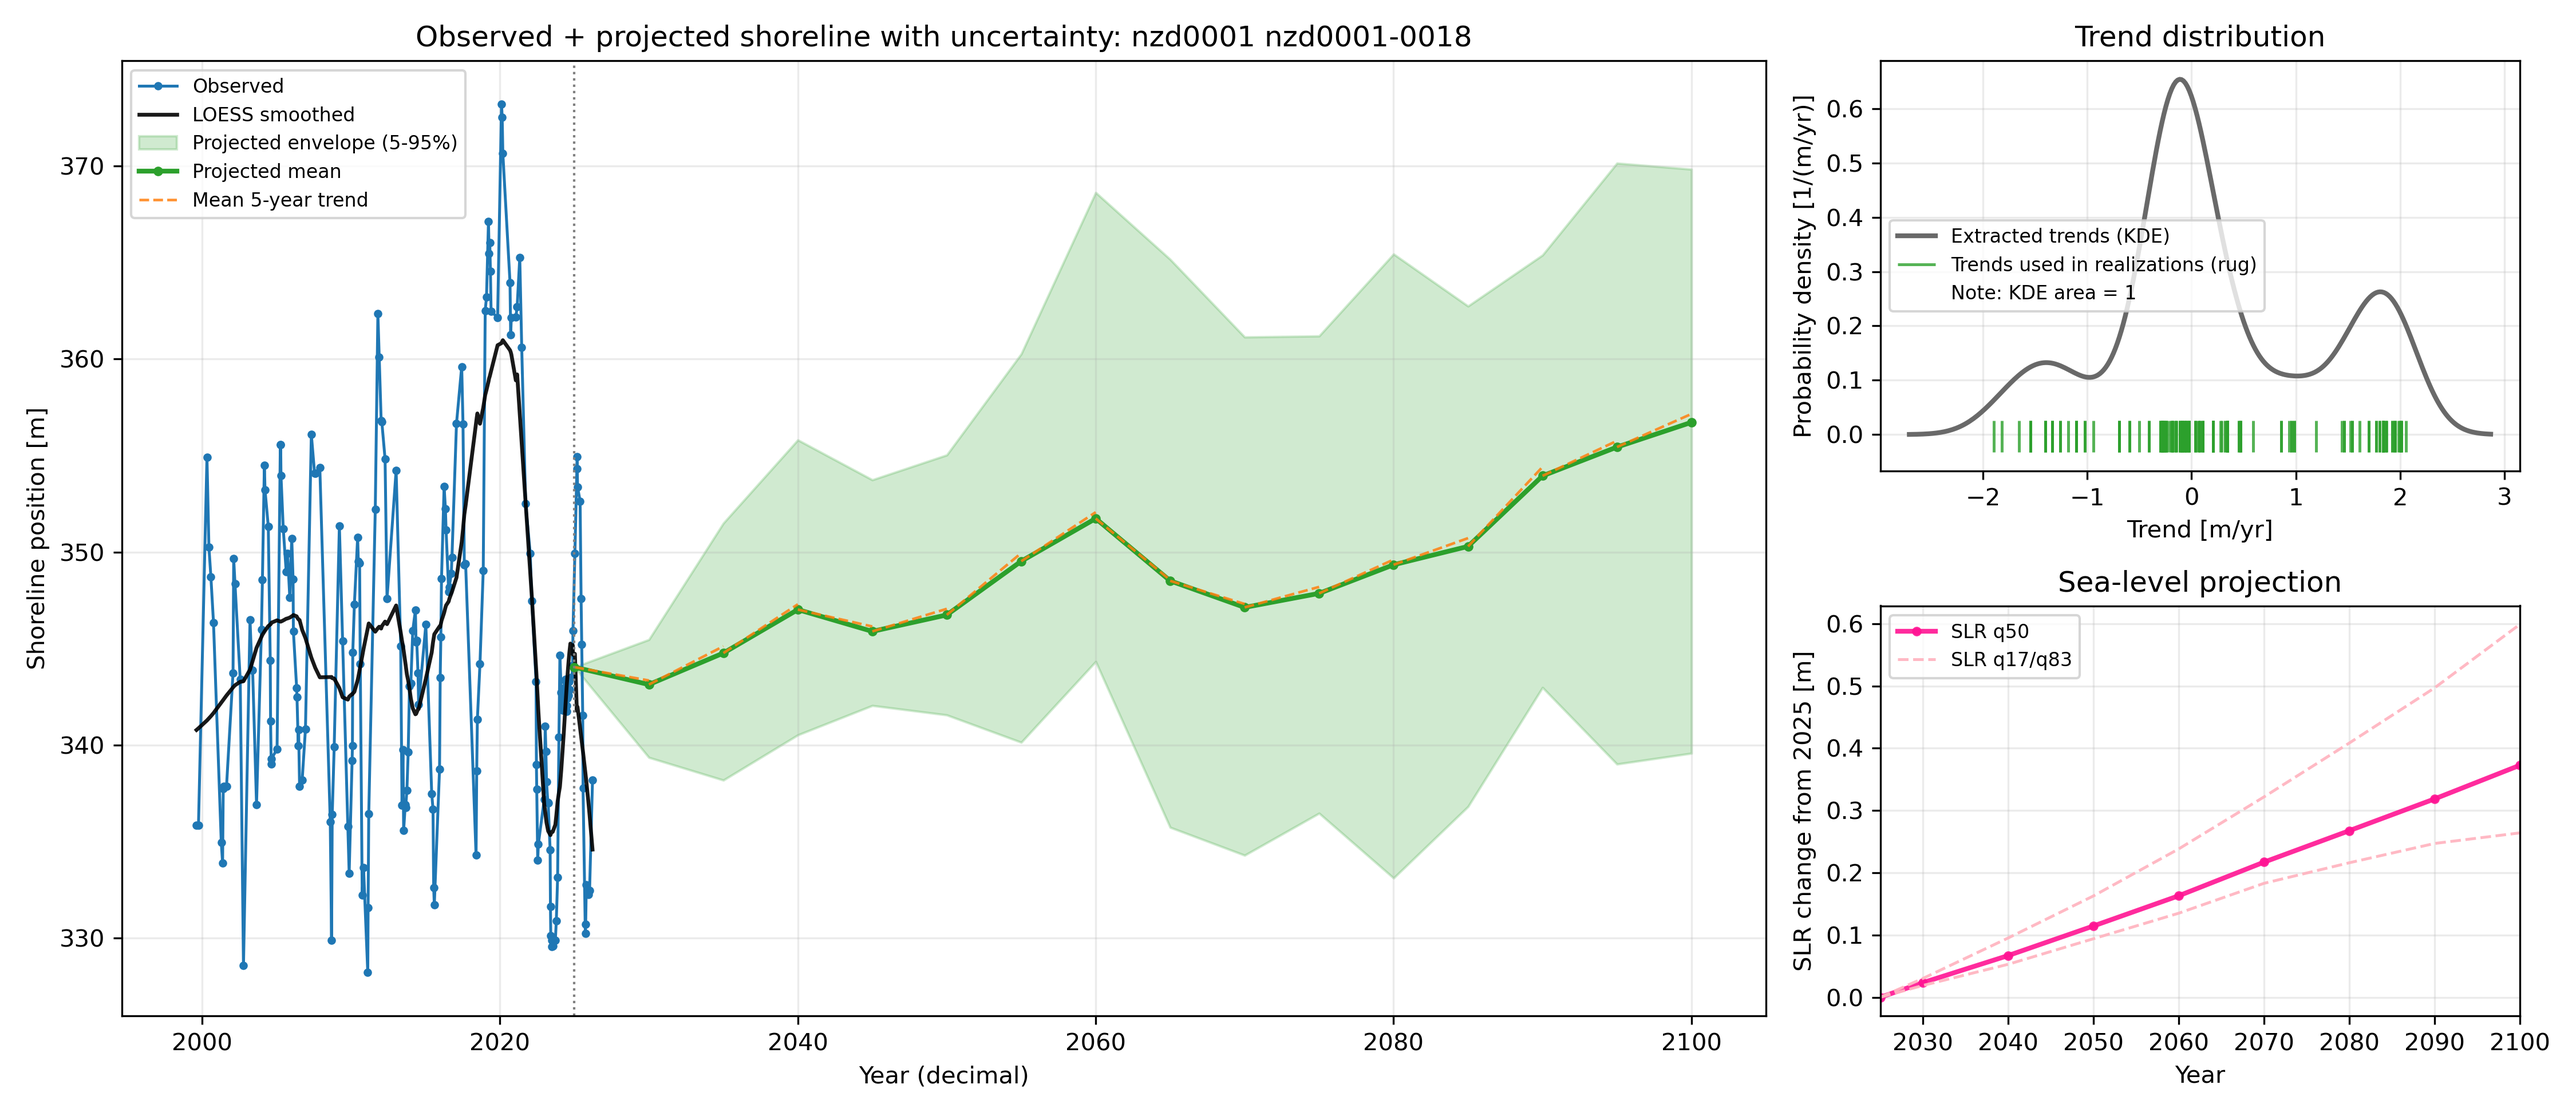
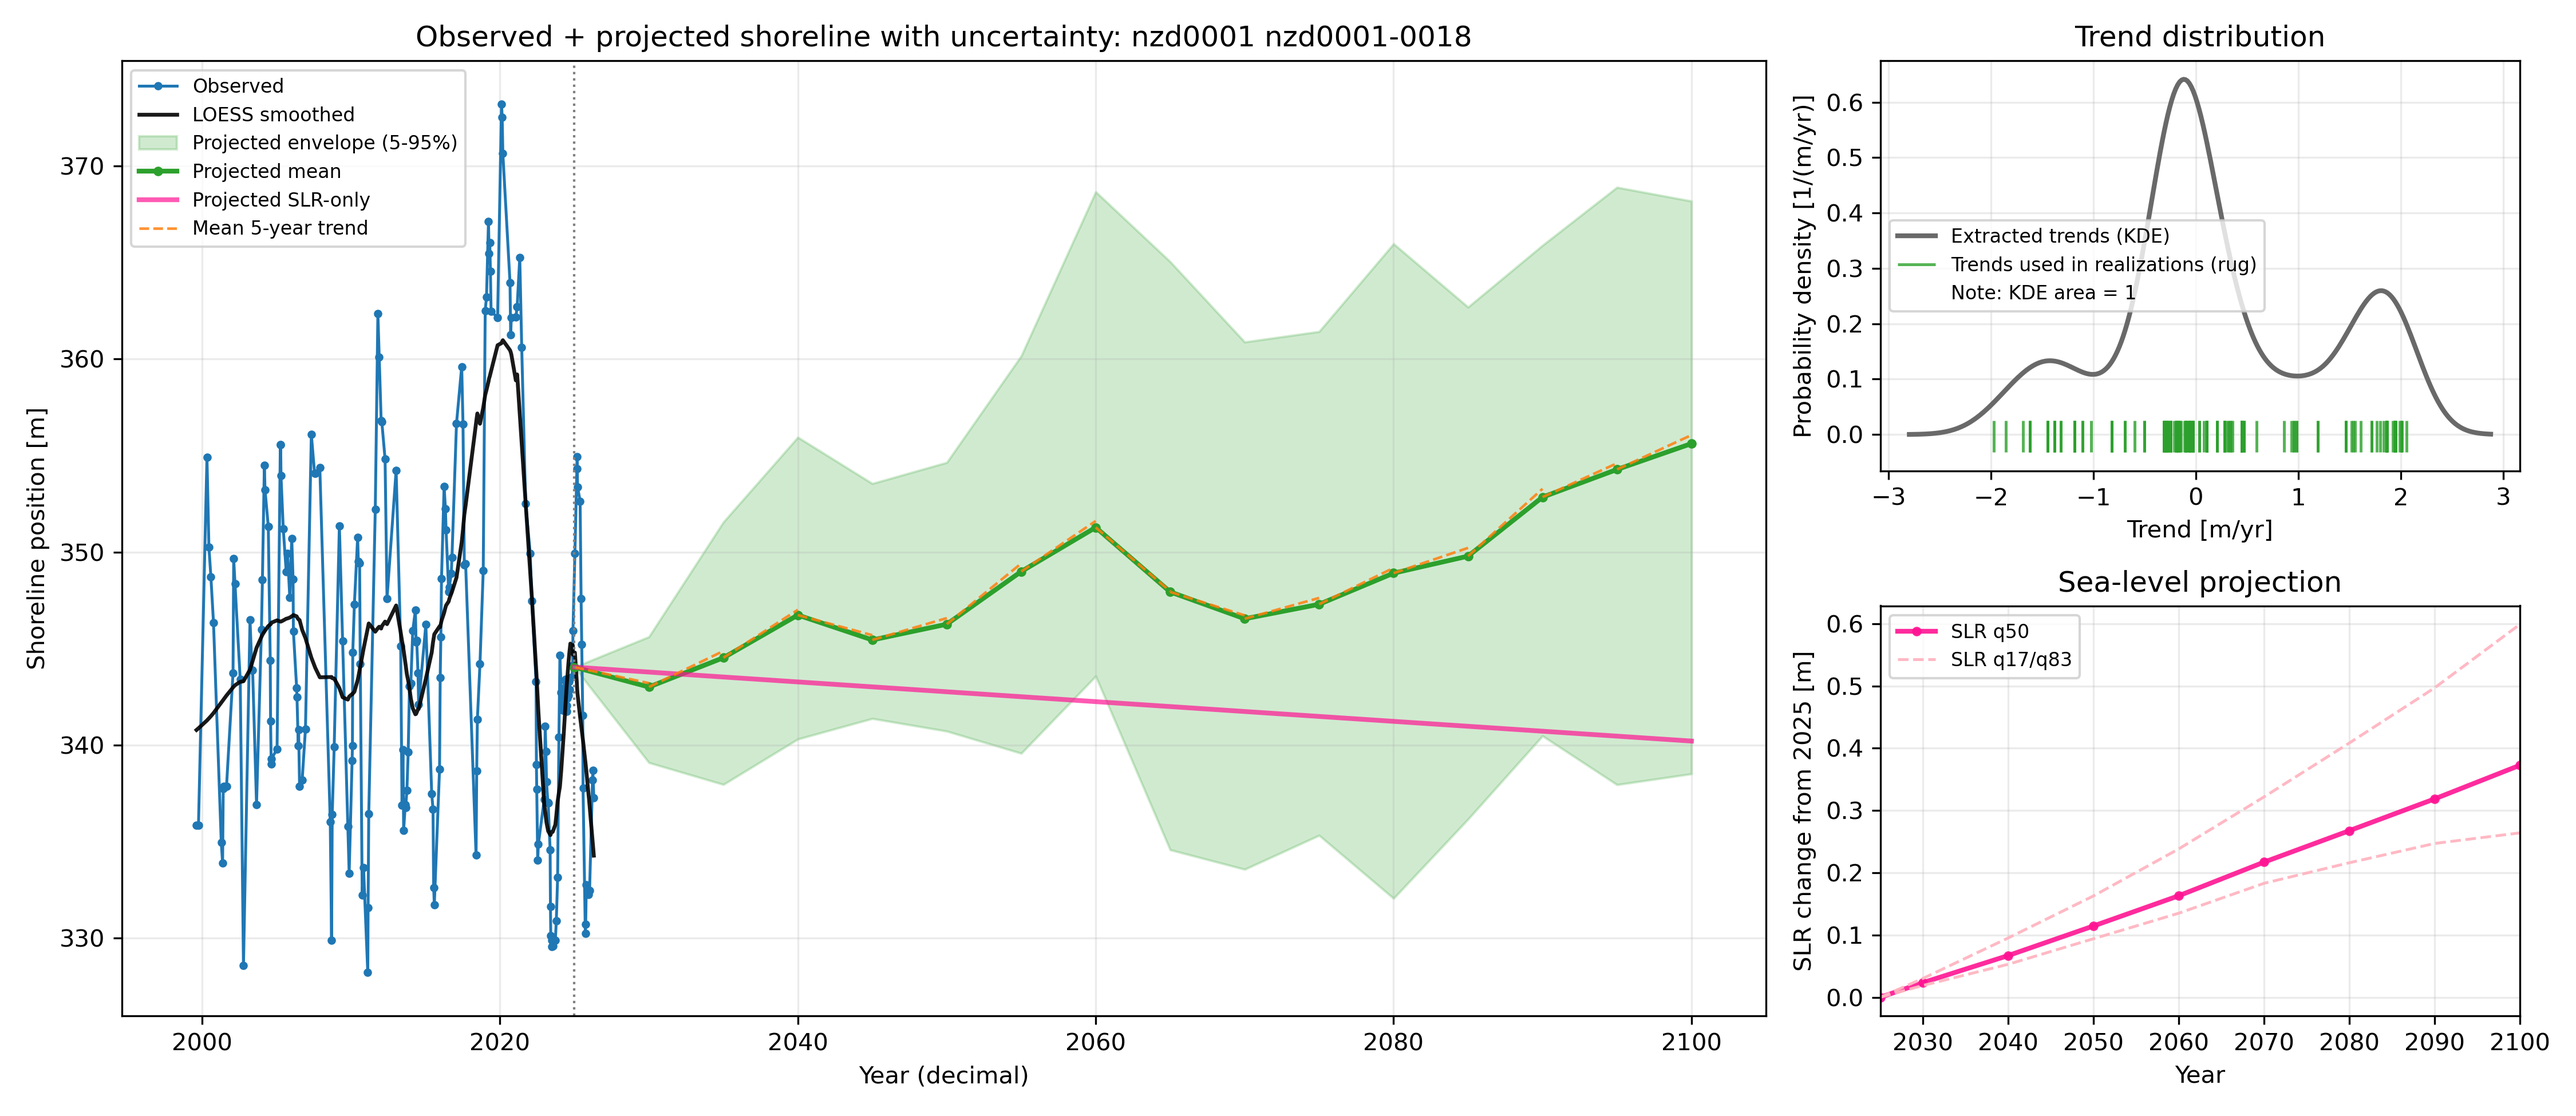
securitychks_trends_oslr
security checks on segment plotting osrl and trends

diff --git a/trend_uncertainty.py b/trend_uncertainty.py
@@ -69,7 +69,6 @@ def build_loess_time_grid(t, n_grid=None):
 
     return t_numeric, t_grid, t0
 
-
 #%% Filter to most recent continuous segment separated by long gaps. Function DEFINITION
 def filter_to_longest_consecutive_year_run(
     t, y, dates,
@@ -402,6 +401,8 @@ def mc_shoreline_change(
         "dy_median_m": float(np.median(dy_total)),
         "dy_p05_m": float(np.quantile(dy_total, 0.05)),
         "dy_p95_m": float(np.quantile(dy_total, 0.95)),
+
+
     }
 
     outputs = [dy, summary]
@@ -479,8 +480,6 @@ all_merged = all_merged[
     & (all_merged["SSP"].astype(str).str.lower() == ssp_target)
 ].copy()
 all_merged["year"] = pd.to_numeric(all_merged["year"], errors="coerce")
-
-
 
 
 # %% Main loop: load data, apply filters, bootstrap, Monte Carlo
@@ -562,8 +561,6 @@ for site_id in nzd_sites_trial:
             print(f"SKIP {site_id} {transect_id}: {meta['status']} (best_run_len={meta.get('best_run_len')})")
             continue
 
-        import matplotlib.pyplot as plt
-
 #%
         # Apply LOESS smoothing to the cleaned time series.
         
@@ -602,9 +599,6 @@ for site_id in nzd_sites_trial:
         loess_plot_fp = site_dir / f"{site_id}_{transect_id}_loess_smoothed.png"
         fig.savefig(loess_plot_fp, dpi=200, bbox_inches="tight")
         plt.close(fig)
-
-
-
 
         ###############################
         # Apply bootstrap and Monte Carlo functions
@@ -789,6 +783,8 @@ for site_id in nzd_sites_trial:
             raise ValueError("Preview SLR-only segments and dy segments must have matching shapes.")
 
         preview_ts_plot_fp = site_dir / f"{site_id}_{transect_id}_single_run_observed_projected.png"
+        
+        
         plot_observed_and_projected_single_run(
             t_obs=t_clean,
             y_obs=y_clean,
@@ -812,7 +808,106 @@ for site_id in nzd_sites_trial:
 
         print(site_id, transect_id)
 
+#%% Plot projections
 
+#What is in preview_dy? 
+# #It should be the full array of shape (n_mc_realizations_per_transect, n_segments)
+# containing the projected shoreline change 
+# for each Monte Carlo realization and each time segment. 
+# Each row corresponds to one realization's trajectory of shoreline change
+#  over the projection period, segmented into 5-year intervals 
+# (or however the segments were defined). 
+# The values in preview_dy represent the change in shoreline
+#  position (in meters) for each segment of each realization,
+#  which can be summed across segments to get the total projected 
+# change at the end of the time horizon.
+
+
+plt_dy = np.asarray(preview_dy, dtype=float)
+
+
+plt.plot(np.cumsum(np.average(plt_dy, axis=0)), "o-")
+
+plt.plot(year_average_end_obs + np.cumsum(np.average(plt_dy, axis=0)), "o-")
+
+
+
+
+# Use the same baseline and trajectory construction as
+#  plot_observed_and_projected_single_run.
+baseline_mask = (
+    (t_smooth >= (custom_ref_year - 5.0))
+    & (t_smooth <= custom_ref_year)
+)
+# If there are points in the 5-year window before the reference year,
+#  average them for the baseline.
+if np.any(baseline_mask): 
+    year_average_end_obs = float(np.mean(y_smooth[baseline_mask]))
+
+# If no points in the 5-year window, use the closest point to the reference year.
+else:
+    baseline_idx = int(np.argmin(np.abs(t_smooth - custom_ref_year)))
+    year_average_end_obs = float(y_smooth[baseline_idx])
+
+
+# Construct projection years based on segment lengths.
+#  This allows for non-uniform segments if the last one is shorter.
+n_segments = plt_dy.shape[1]
+# By default, segments are 5 years, but the last segment can be shorter 
+# if dt is not divisible by 5.
+seg_durations = np.full(n_segments, float(preview_segment_years), dtype=float)
+remainder = preview_dt % preview_segment_years
+if remainder > 0:
+    seg_durations[-1] = float(remainder)
+
+# The projection years are the cumulative sum of segment durations
+#  added to the reference year.
+projection_years = np.concatenate(
+    ([float(custom_ref_year)], float(custom_ref_year) + np.cumsum(seg_durations))
+)
+
+# Construct cumulative change for each realization at each projection year.
+cum_dy = np.cumsum(plt_dy, axis=1)
+proj_shoreline_all = year_average_end_obs + np.concatenate(
+    [np.zeros((plt_dy.shape[0], 1)), cum_dy],
+    axis=1,
+)
+proj_shoreline_mean = np.mean(proj_shoreline_all, axis=0)
+proj_shoreline_q05 = np.quantile(proj_shoreline_all, 0.05, axis=0)
+proj_shoreline_q95 = np.quantile(proj_shoreline_all, 0.95, axis=0)
+
+# Plot projections from Monte Carlo simulations
+plt.figure(figsize=(10, 5))
+plt.plot(t_smooth, y_smooth, "r-", label="LOESS smoothed observed")
+plt.plot(projection_years, proj_shoreline_mean, "b-", label="Mean projected change")
+plt.fill_between(
+    projection_years,
+    proj_shoreline_q05,
+    proj_shoreline_q95,
+    color="blue",
+    alpha=0.3,
+    label="90% CI"
+)
+plt.xlabel("Year")
+plt.ylabel("Shoreline position (m)")
+plt.title(f"{site_id} {transect_id} – Projected shoreline change with uncertainty")
+plt.legend()
+plt.tight_layout()
+plt.show()  
+
+
+
+#%%
+#What about preview_slr_only_dy?
+# preview_slr_only_dy should be the array of shape (n_mc_realizations_per_transect, 
+# n_segments) containing the sampled SLR-only shoreline change (dy_slr_k) for each Monte Carlo
+#  realization and each time segment.
+
+plt_slr_only_dy = np.asarray(preview_slr_only_dy, dtype=float)
+
+
+
+#%%
 #Loop ends
 dy_df = (
         pd.DataFrame(dy_rows)

diff --git a/viz.py b/viz.py
@@ -22,7 +22,7 @@ def plot_observed_and_projected_single_run(
     t_loess,
     y_loess,
     trend_pool,
-    slr_only_dy_segments=None,
+    slr_only_dy_segments,
 ):
     """Plot observed shoreline and projected trajectories.
 
@@ -203,15 +203,15 @@ def plot_observed_and_projected_single_run(
             label="Projected single run",
         )
 
-    # if slr_only_matrix is not None:
-    #     ax.plot(
-    #         proj_years,
-    #         slr_only_shoreline_mean,
-    #         color="deeppink",
-    #         linewidth=2.0,
-    #         alpha=0.7,
-    #         label="Projected SLR-only",
-    #     )
+    if slr_only_matrix is not None:
+        ax.plot(
+            proj_years,
+            slr_only_shoreline_mean,
+            color="deeppink",
+            linewidth=2.0,
+            alpha=0.7,
+            label="Projected SLR-only",
+        )
 
     first_label = True
     for i in range(n_segments):
